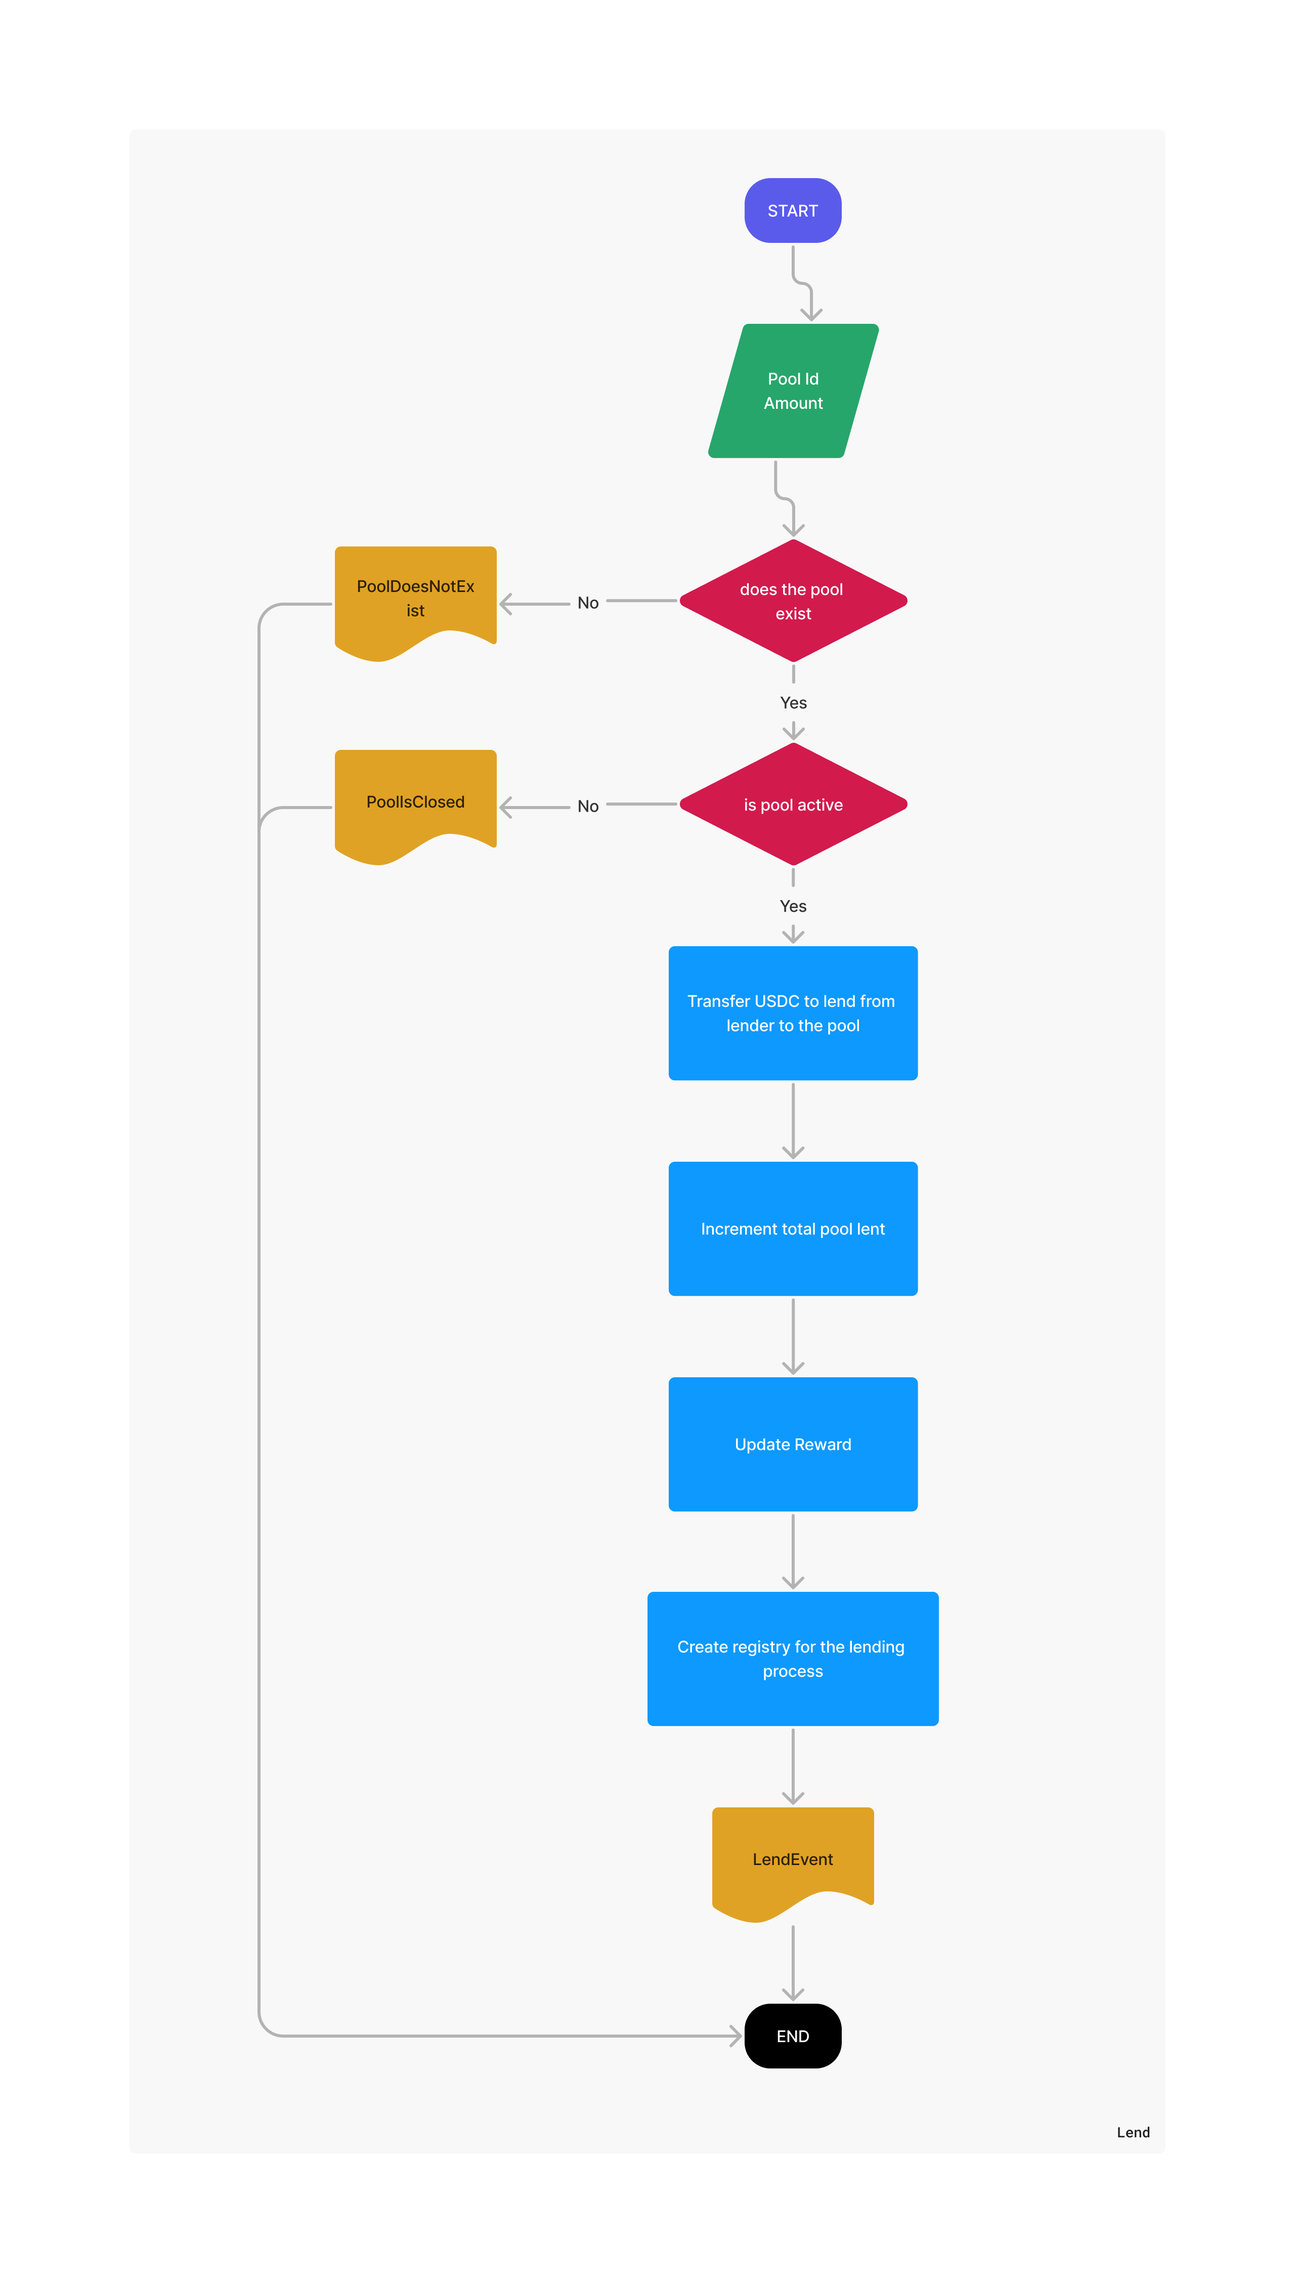
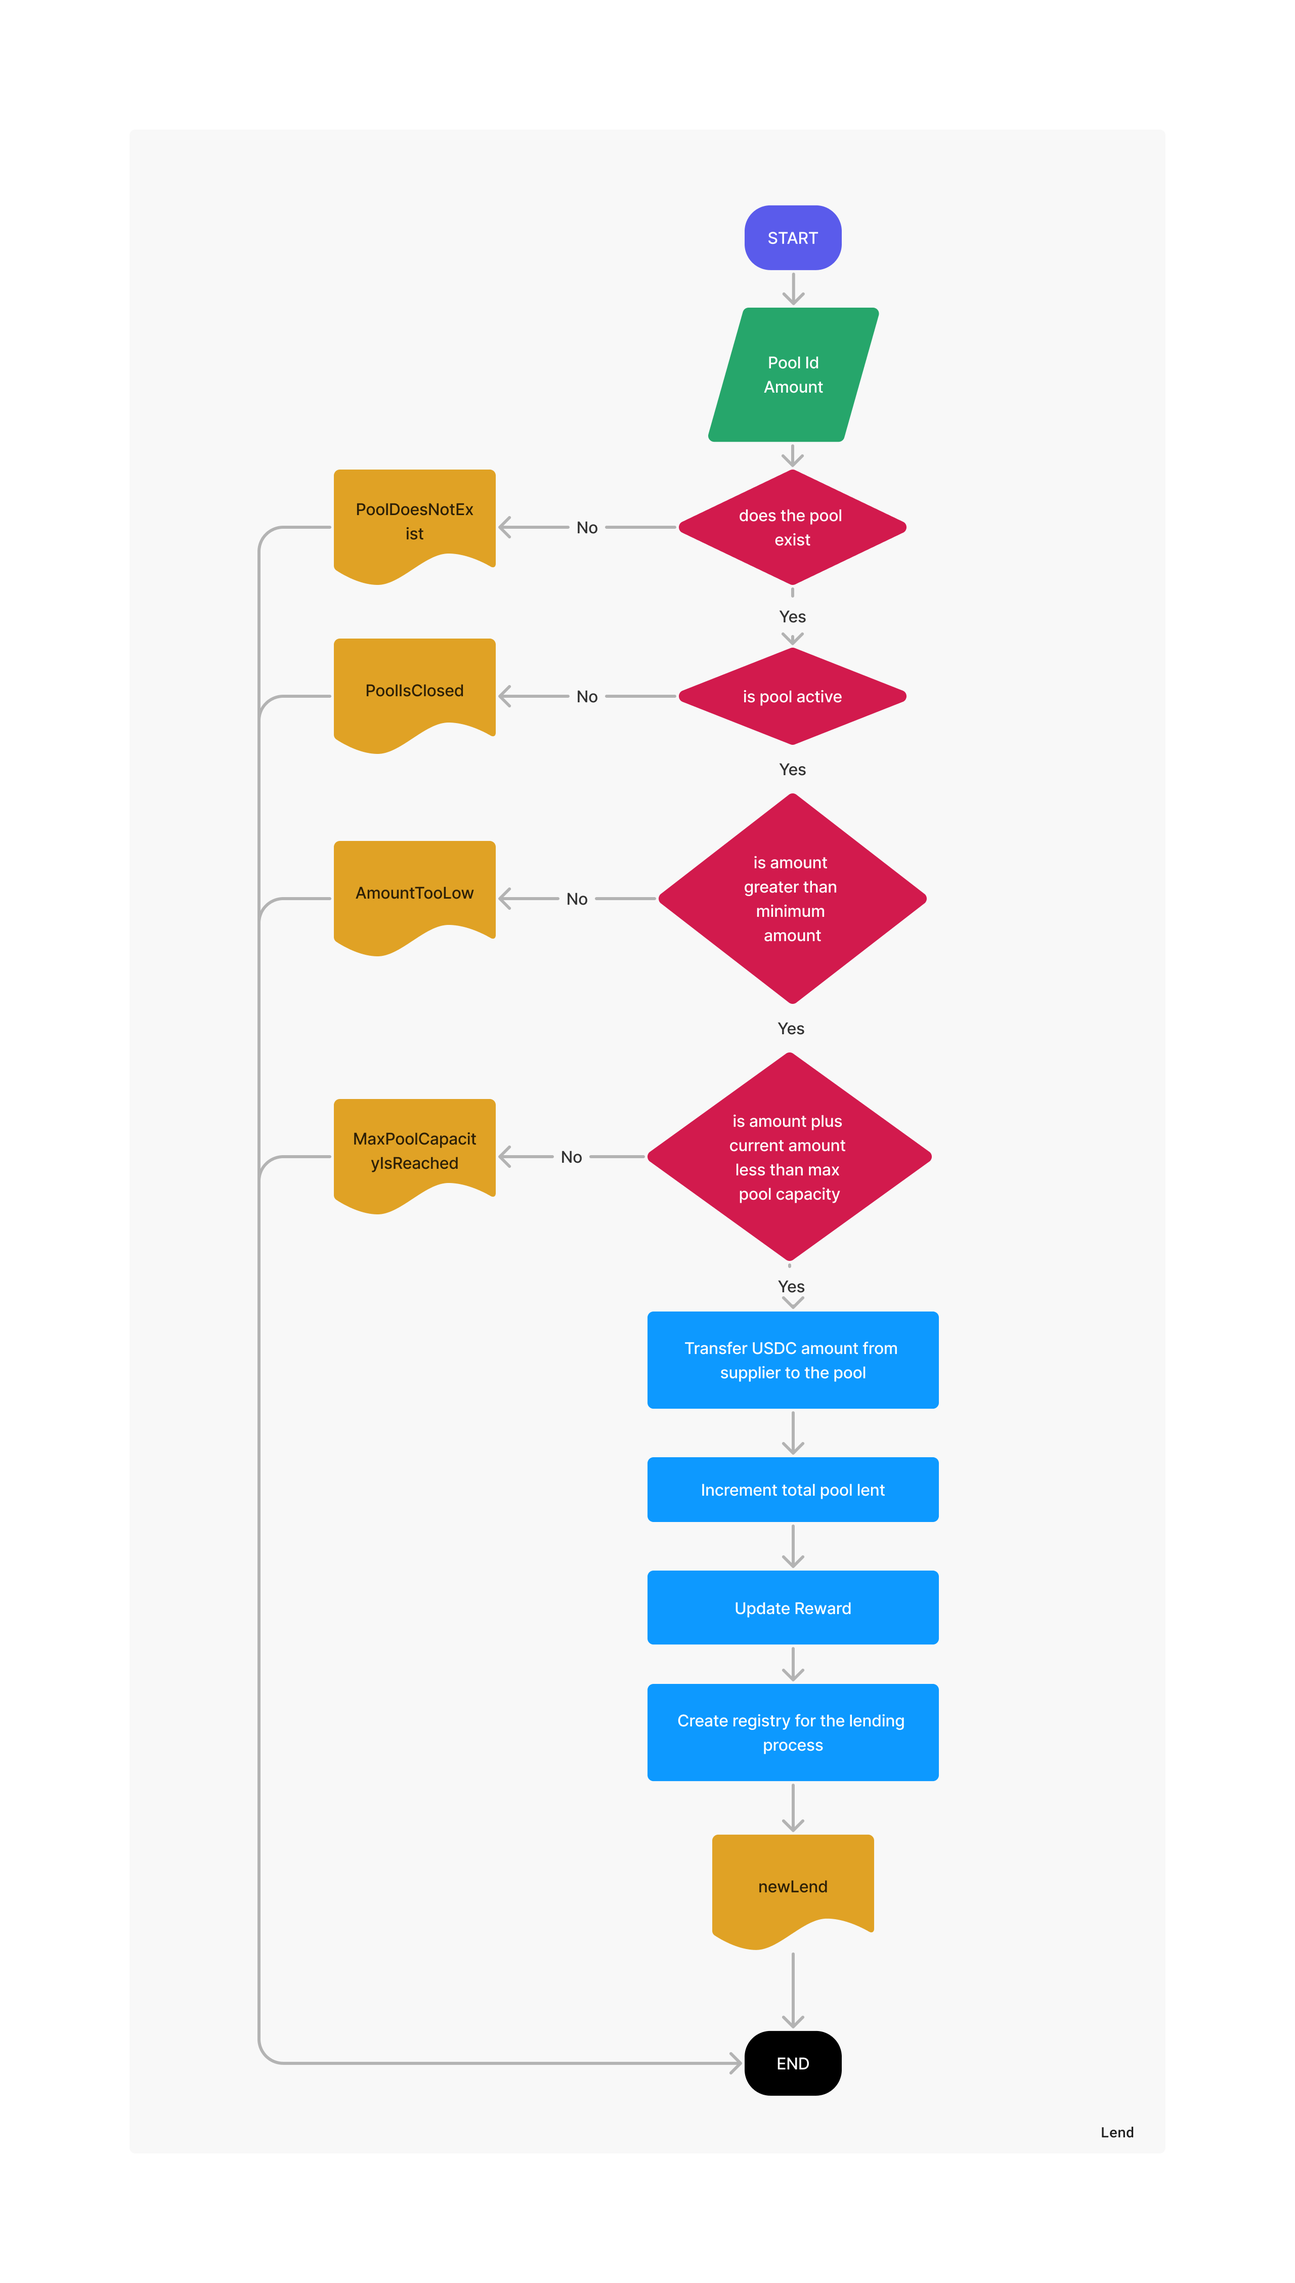
docs(pools): update contract description and diagrams from pools v2

Changed region(s): [[0.5, 0.0625, 0.75, 0.9375], [0.25, 0.1875, 0.4062, 0.4375], [0.25, 0.4688, 0.4062, 0.5312]]

diff --git a/docs/pools/smart-contracts/erc20-collateral-pool-contract/introduction.md b/docs/pools/smart-contracts/erc20-collateral-pool-contract/introduction.md
@@ -7,27 +7,28 @@ tags:
   - Collateral Pool
 ---
 
-The `ERC20CollateralPool` smart contract, designed for EVM based blockchains, manages pools of collateralized loans using `ERC20` standard token. It facilitates lending, borrowing, and reward distribution in a decentralized finance (DeFi) ecosystem.
+The `ERC20CollateralPool` smart contract is designed for EVM-based blockchains and manages pools of collateralized loans using the `ERC20` standard token. It facilitates supply, borrow, and reward distribution in a decentralized finance (DeFi) ecosystem.
 
 ---
 
 ## Pool
 
-The pool is a structure that keeps track of lenders, borrowers, and total balance for USDC and collateral tokens.
+The pool is a structure that keeps track of suppliers, borrowers, and total balance for USDC and collateral tokens.
 
 Some important characteristics:
 
-- It has an end time, referred to in this document as the `active period time of the pool`. Once this period concludes, neither lending nor borrowing are allowed.
-- The pool has a variable reward rate that depends on the volume of lending and borrowing transactions during its active period.
-- This pool is primarily designed to support USDC tokens for lending and borrowing, but it can accommodate any other contract that adheres to the `ERC20` token standard with a `token precision of 6`. It also supports `ERC20` tokens as collateral, regardless of precision.
+- The pool has a maximum pool capacity and minimum amounts required for supplying and borrowing. 
+- It has an end time, referred to in this document as the `active period time of the pool`. Once this period concludes, neither supply nor borrow are allowed.
+- The pool has a variable reward rate that depends on the volume of supply and borrow transactions during its active period.
+- This contract is primarily designed to support any contract that adheres to the `ERC20` token standard for supply and borrow. Additionally, each pool can only have one `ERC20` as a collateral token.
 - The pool has a `collateral token percentage` that is used to calculate the amount of collateral token a borrower will need to provide to borrow from the pool.
-- A pool can only have one type of collateral token.
+- The pools allow to withdrawn partially or completely the supplied amount anytime meanwhile there are enough USDC funds in the pools to return the amount plus the rewards. The contract also support partially or completely repays and liquidation.
 
 ---
 
 ## Roles
 
-The smart contract caters to two types of users: the administrator (`admin`), responsible for managing the contract by pausing it and overseeing pool-related duties; and the pool users (`client`), who can lend, borrow, repay, and claim rewards.
+The smart contract serves two types of users: the administrator (`admin`), who is responsible for managing the contract by pausing it and overseeing pool-related duties; and the pool users (`user`), who can supply, borrow, repay, and claim rewards.
 
 ### admin
 
@@ -39,42 +40,50 @@ The smart contract caters to two types of users: the administrator (`admin`), re
 
 ![ERC20CollateralPool Create Pool](/img/flowchart/ERC20CollateralPool_createnewpool.png)
 
-### client
+### user
 
-The contract provides a set of actions for clients, enabling them to interact with it. Clients can lend, borrow, repay, claim rewards, and retrieve unliquidated collateral, among other functionalities.
+The contract provides a set of actions for users, enabling them to interact with it. User can supply, borrow, repay, claim rewards, and retrieve unliquidated collateral, among other functionalities.
 
 #### lend
 
-When the user lends their money to the pool, the contract asks for USDC token approval to transfer the USDC tokens from the user's wallet to the pool. A registry is added to the pool to represent the amount of USDC tokens the user have lent to the pool.
+When a user supplies funds to the pool, the contract requests approval for the transfer of USDC tokens from the user's wallet to the pool.
+
+Each pool has a minimum amount to lend and maximum USDC capacity.
 
 ![ERC20CollateralPool Lend](/img/flowchart/ERC20CollateralPool_lend.png)
 
 #### borrow
 
-When the user borrows from a given pool, the contract asks for a certain amount of collateral assets as a safe mechanism to ensure the borrower will come back and pay the loan; otherwise, the pool will use the collateralized amount to pay the loan, and the rest will be liquidated. To avoid getting liquidated, the borrower must pay the loan with interest (due to the time the pool has lent money) before the pool ends.
+When the user borrows from a given pool, the contract asks for a certain amount of collateral assets as a safe mechanism to ensure the borrower will come back and pay the borrow position. The borrower can indicate how much collateral token provide with the restriction that the loan-to-value (LTV) ratio is less than pool max ltv configured. 
+
+Once the position is open if the LTV increase and reach the liquidation threshold the borrow position become liquidatable. To avoid getting liquidated, the borrower must pay the borrow position with interest or increase the collateral amount of the borrow position.
 
 ![ERC20CollateralPool Borrow](/img/flowchart/ERC20CollateralPool_borrow.png)
 
 #### repay
 
-The borrower can pay the loan anytime before the pool's time ends to avoid getting liquidated. The contract asks for USDC token approval to transfer the USDC tokens from the user's wallet to the pool. The interest and the amount of USDC tokens to be paid is calculated by the contract, so the borrower will have to return the exact amount of USDC tokens lent plus an interest of the amount the loan has been taken in terms of time. Every pool has a different interest rate that is calculated based on the pool the user is interacting with. The interest to pay is calculated as `(pool.interest * borrowObj.amount * (block.timestamp - borrowObj.borrowTime)) / (ONE_YEAR * HOUNDRED)`.
+The borrower can pay the position anytime. The contract asks for USDC token approval to transfer the USDC tokens from the user's wallet to the pool. The interest and the amount of USDC tokens to be paid is calculated by the contract, so the borrower decides how much of the taken amount will be return, and according to the time since the position was open it will be the interest amount to pay. Each pool has a different interest rate that is calculated based on the pool the user is interacting with. The interest to pay is calculated as `(pool.interest * borrowObj.amount * (block.timestamp - borrowObj.borrowTime)) / (ONE_YEAR * BPS_DIVIDER)`.
 
 To break this formula down into something easier to read, we can say: the amount to pay is the interest accrued on a borrowed amount over a period of time, considering the interest rate of the pool.
 
 ![ERC20CollateralPool Repay](/img/flowchart/ERC20CollateralPool_repay.png)
 
-#### claim rewards and claim multiple
+#### withdraw and claim rewards
 
-The pool allows lenders to claim rewards based on the amount they have lent plus a reward per token, which is calculated based on the lend and borrow activity on the pool. To do so, the pool must have finished the active period.
-
-The other action the user can interact with is `claim multiple`, it's the same as claim rewards with a minor difference. Instead of only claiming the rewards for a lending position, it'll claim the reward for all the lending positions the user has on the specified pool.
+The pool allows suppliers to claim rewards based on the amount they have supplied plus a reward per token, which is calculated based on the supply and borrow activity on the pool. Additionally, the contract allows partial withdraws meanwhile it is enough USDC in the pool. 
 
 ![ERC20CollateralPool_claim_rewards](/img/flowchart/ERC20CollateralPool_claim_rewards.png)
 
-#### claim unliquidated collateral
+#### change collateral amount
 
-To mitigate the risk of fund loss for lenders and maintain the health of the pool, collateral tokens are required from every borrower. In the event of a borrower's default on the loan, the pool will utilize the collateral to cover it, and any remaining amount will be liquidated. If there is a surplus after liquidation, the borrower can reclaim it based on the value of their collateral.
+Borrowers can increase or decrease the collateral amount of their positions, if the collateral token price decreased they can increase the amount in order to avoid a liquidation, otherwise, if the price increase they can decrease the amount, ensuring they do not over-collateralize their position.
+
+![ERC20CollateralPool_change_collateral](/img/flowchart/ERC20CollateralPool_change_collateral.png)
+
+#### liquidate
+
+When the loan-to-value (LTV) ratio of a borrow position exceeds the configured liquidation threshold, the position becomes liquidatable. To prevent liquidation, borrowers can increase the amount of collateral they have provided. Alternatively, any user can liquidate the position by paying the required USDC fees, in exchange receiving the collateral amount.
 
 > ⚠ It's important to note that there is always a risk of fund loss associated with market volatility for the collateralized assets.
 
-![ERC20CollateralPool Claim Unliquidated Collateral](/img/flowchart/ERC20CollateralPool_claimunliquidatedcollateral.png)
+![ERC20CollateralPool_liquidate](/img/flowchart/ERC20CollateralPool_liquidate.png)

diff --git a/docs/pools/smart-contracts/erc20-collateral-pool-contract/technical_aspects.md b/docs/pools/smart-contracts/erc20-collateral-pool-contract/technical_aspects.md
@@ -4,7 +4,6 @@ title: Technical Aspects
 sidebar_position: 2
 tags:
   - Technical Aspects
-#   - Collateral Pool
 ---
 
 ## Contract Modules
@@ -20,11 +19,12 @@ tags:
 
 ### Constants
 
-- `LIQUIDATION_PROTOCOL_FEE`: Fixed fee for liquidation.
-- `LIQUIDATION_FEE`: Additional liquidation fee.
-- `OZ_IN_G`: Ounces to grams conversion constant.
+- `LIQUIDATION_PROTOCOL_FEE`: A fixed fee charged by the contract during liquidation.
+- `LIQUIDATION_FEE`: A fee awarded to the liquidator as an incentive for carrying out liquidations.
+- `LIQUIDATION_MARGIN_FACTOR`: Factor that determines whether the position is liquidatable.
+- `MAX_LTV_PERCENTAGE`: The highest loan-to-value (LTV) ratio that can be set for a pool.
 - `ONE_YEAR`: One year in seconds.
-- `HOUNDRED`: Constant for percentage calculations.
+- `BPS_DIVIDER`: Basis point divider.
 
 ### Initialization
 
@@ -40,24 +40,35 @@ tags:
 ### Contract Control
 
 - `pause` / `unpause`: Pause or unpause contract operations.
+- `withdrawProtocolRewards`: Allows admin to withdraw protocol fees.
 
 ### User Interactions
 
-- `lend`: Lend USDC to a pool.
+- `lend`: Supply USDC to a pool.
 - `borrow`: Borrow USDC against collateral.
 - `repay`: Repay borrowed USDC with interest.
-- `claimRewards`: Claim rewards after pool closure.
-- `claimUnliquidatedCollateral`: Claim back collateral if not repaid.
-- `liquidatePool`: Liquidate a pool after closure.
+- `claim`: Withdraw supplied USDC with rewards.
+- `changeCollateralAmount`: Change the collateral amount of a borrow position.
+- `liquidate`: Liquidate borrow positions that are liquidatable.
+- `claimCollateral`: Allow to withdraw supply positions, receiving their rewards in collateral tokens by liquidate borrow positions.  
 
 ### Calculation Utilities
 
 - `calculateRepayInterest`: Calculate repayment interest.
 - `calculateCollateralTokenAmount`: Calculate required collateral token amount.
+- `isPositionLiquidatable`: Calculate is a borrow position is liquidatable.
 
 ### View Functions
 
 - `getPools`: Get details of all pools.
+- `getPool`: Get details of one pool.
+- `getLendPosition`: Get details of one supply.
+- `getAllLendPositions`: Get all user supply position in the given pool.
+- `getBorrowPosition`: Get details of one borrow.
+- `getAllBorrowPositions`: Get all user borrow position in the given pool.
+- `getCollateralTokens`: Get the list of all collateral tokens.
+- `getCollateralTokenProtocolFee`: Get protocol fees for collateral token.
+- `getAvailableAmountsInPool`: Get available USDC and collateral token amount in a given pool.
 
 ### Error Handling
 
@@ -65,7 +76,7 @@ Defined errors for exceptional scenarios, like `PoolEndsAtIsInThePast` and `Admi
 
 ### Event Logging
 
-Events like `LendEvent`, `BorrowEvent`, and `RepayEvent` for activity tracking.
+Events like `newLend`, `newBorrow`, `Repaid`, `RewardsClaimed`, `AddedCollateral`, `RemovedCollateral`, and `UserPositionLiquidated` for activity tracking.
 
 ### Security Features
 
@@ -83,6 +94,6 @@ Designed with OpenZeppelin's upgradeable contracts framework.
 
 ### Important Considerations
 
-- **Precision and Rounding**: Handle mathematical calculations accurately.
+- **Precision and Rounding**: While mathematical calculations are handled accurately, slight discrepancies may arise due to rounding and the use of different timestamps for calculating suppliers' and borrowers' rewards.
 - **Time Dependencies**: Time-sensitive functions need careful handling.
 - **Security**: Regular audits and reviews are recommended.

diff --git a/docs/pools/back-end/introduction.md b/docs/pools/back-end/introduction.md
@@ -4,33 +4,9 @@ title: Pools Backend Overview
 sidebar_position: 1
 ---
 
-<div style={{ display: 'flex', flexWrap: 'wrap', color: '#eb9f00', gap: '1rem' }}>
-  <div style={{
-    flex: '1 1 280px',
-    display: 'flex',
-    flexDirection: 'column',
-    rowGap: '1rem',
-    alignItems: 'flex-start',
-    textDecoration: 'underline',
-  }}>
-    <a href="api/counterpartyPools/restful.md" className="pagination-nav__label">API Endpoints</a>
-  </div>
+The **Pools Backend** includes a full set of APIs and SDK modules to interact with Defactor’s pools infrastructure. These tools enable developers to integrate borrowing, supply, collateral management, and liquidation flows into their applications with ease.
 
-  <div style={{
-    flex: '1 1 280px',
-    display: 'flex',
-    flexDirection: 'column',
-    rowGap: '1rem',
-    alignItems: 'flex-start',
-    textDecoration: 'underline'
-  }}>
-    <a href="sdk/counterparty-pool.md" className="pagination-nav__label">SDK</a>
-  </div>
-</div>
-
-The **Pools Backend** includes a full set of APIs and SDK modules to interact with Defactor’s lending infrastructure. These tools enable developers to integrate borrowing, lending, collateral management, and liquidation flows into their applications with ease.
-
-This backend layer supports both **ERC-20 Collateral Pools** and **Counterparty Pools**, offering flexibility for open and permissioned lending models.
+This backend layer supports both **ERC-20 Collateral Pools** and **Counterparty Pools**, offering flexibility for open and permissioned pools models.
 
 ---
 
@@ -61,14 +37,14 @@ Defactor’s SDKs are optimized for TypeScript/JavaScript environments and provi
 
 Use SDKs to:
 
-- Integrate on-chain lending logic into dApps
+- Integrate on-chain logic into dApps
 - Estimate gas and prepare transactions
 - Wrap and abstract smart contracts into simple functions
 
 Available modules:
 
 - [**Collateral Pool SDK**](sdk/collateral-pool.md): Manage ERC-20 token collateralization, borrowing, and repayment.
-- [**Counterparty Pool SDK**](sdk/counterparty-pool.md): Handle permissioned lending flows, lender matching, and custom loan terms.
+- [**Counterparty Pool SDK**](sdk/counterparty-pool.md): Handle permissioned supply flows, lender matching, and custom loan terms.
 
 SDKs are ideal for developers looking to integrate directly into web apps and smart contract frontends.
 
@@ -77,7 +53,7 @@ SDKs are ideal for developers looking to integrate directly into web apps and sm
 ## Key Capabilities
 
 - Create and manage lending pools
-- Borrow and lend using on-chain collateral
+- Borrow and supply using on-chain collateral
 - Monitor loan status, interest accrual, and repayment
 - Handle automatic liquidations and risk triggers
 - Integrate with wallet providers and frontends
@@ -88,4 +64,4 @@ SDKs are ideal for developers looking to integrate directly into web apps and sm
 
 1. Choose your integration type: [API](api/counterpartyPools/restful.md) or [SDK](sdk/counterparty-pool.md)
 2. Connect your Web3 wallet or backend provider
-3. Start building lending, borrowing, and liquidity flows
+3. Start building supply, borrow, and liquidation flows
